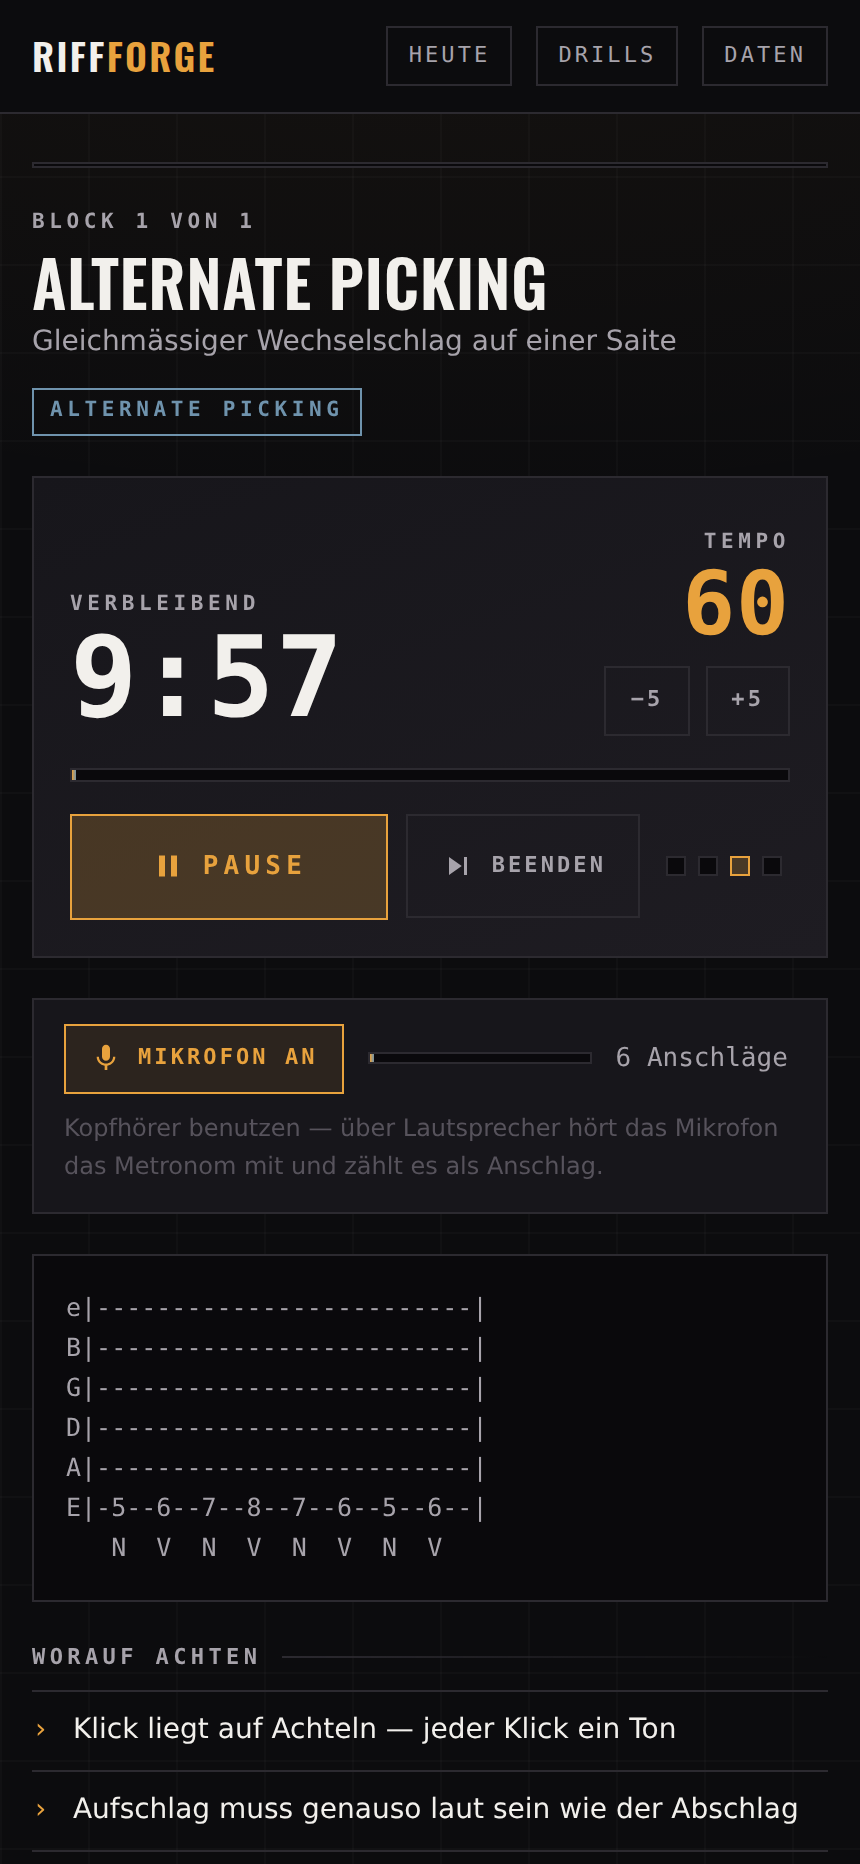
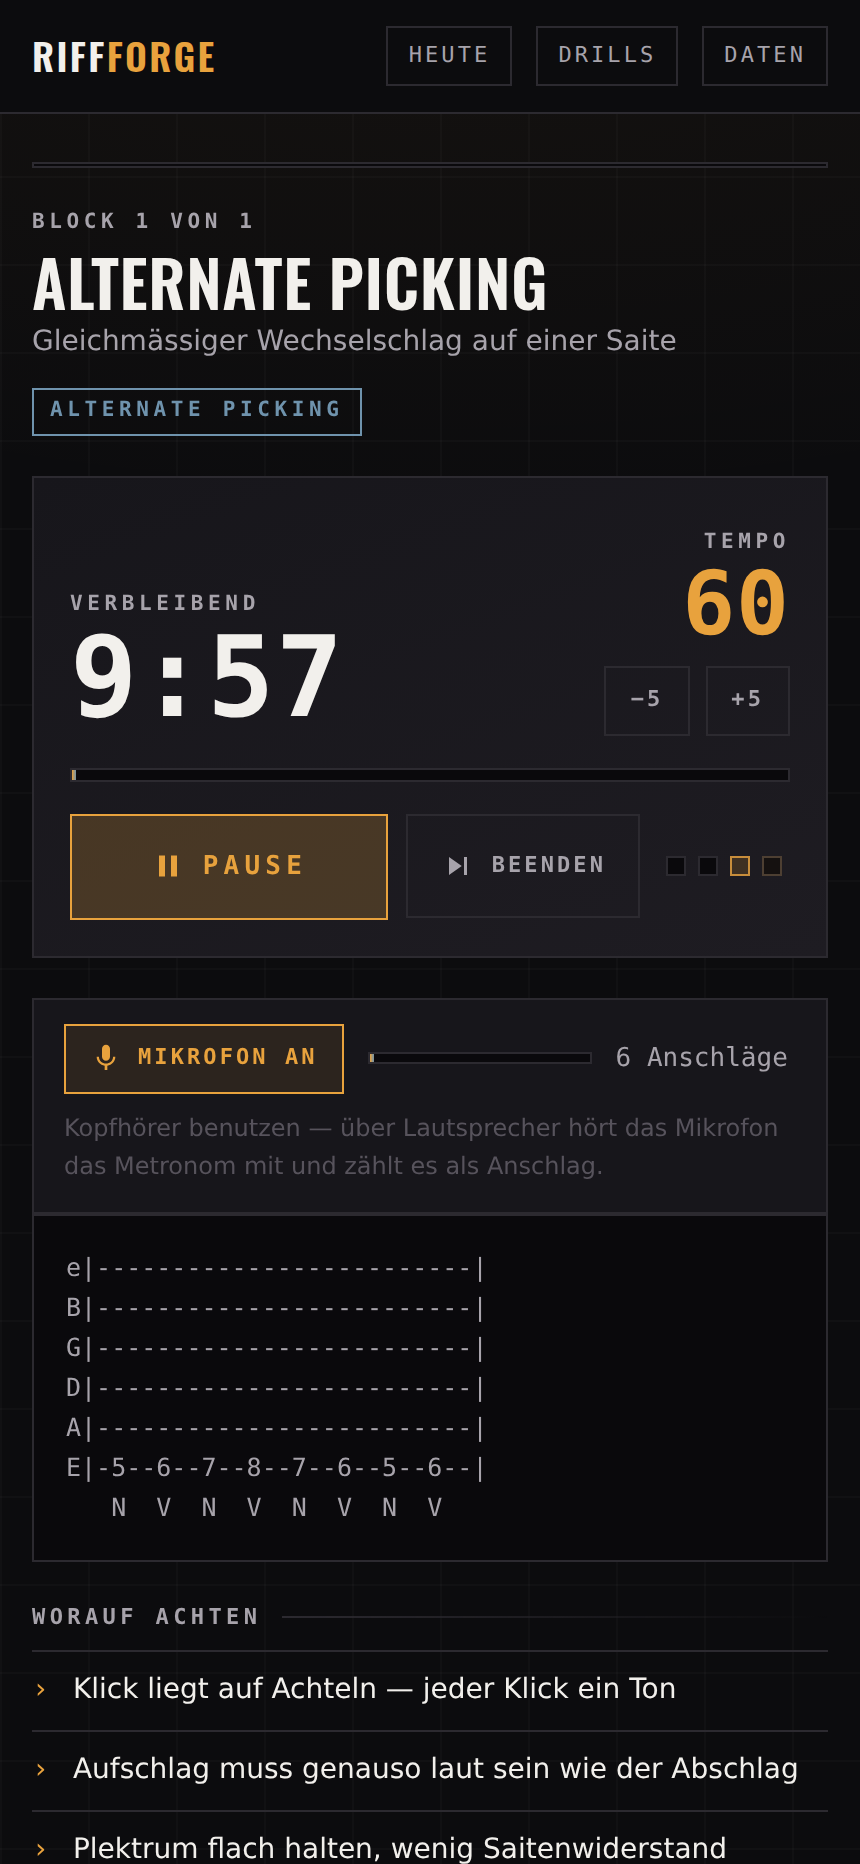
Breite Ansicht ab 900 px, und ein Übungskalender
Wie bei Setlist: unter 900 px ist die schmale Spalte richtig, darüber
wird daraus sonst eine Handy-App mit Leere daneben. Die Reihenfolge im
Markup bleibt gleich, .zwei-spalten stapelt auf dem Handy einfach.

- Start: links Ansage, Start und Kalender, rechts Zahlen und Tempi
- Block: links Uhr, Tempo, Transport und Mikrofon, rechts Tab, Cues und
  Theorie — beim Spielen muss auf dem Mac nichts mehr gescrollt werden.
  Das ist der eigentliche Gewinn der Breite.
- Drills zweispaltig, Daten breiter
- Der Abschluss-Bildschirm bleibt schmal: er ist eine Entscheidung,
  keine Übersicht.

Übungskalender, sechzehn Wochen, sieben Zeilen, eine Spalte je Woche.
Bewusst binär statt nach Minuten abgestuft — und das kam nicht aus dem
Bauch: drei Stufen einer Hue fallen auf diesem Grund durch die Prüfung,
entweder ist die unterste vom leeren Tag nicht zu unterscheiden oder die
oberen nicht voneinander. Beim Nachdenken darüber fiel auf, dass die
Abstufung ohnehin falsch wäre: eine Session ist per Konstruktion rund
eine Viertelstunde, die Minuten pro Tag sind Rauschen. Was zählt, sind
Serien und Lücken. Der genaue Wert steht im Titel jeder Zelle, damit die
Farbe nicht die einzige Auskunft ist.

Verifiziert: Handy bleibt einspaltig und ohne waagerechtes Scrollen,
Session-Ablauf, Export/Import und offline weiterhin vollständig.
100 Tests.

Claude-Session: https://claude.ai/code/session_012LvptsAaijysVFdLtB85w5

diff --git a/lib/session/__tests__/calendar.test.ts b/lib/session/__tests__/calendar.test.ts
@@ -1,0 +1,75 @@
+import { describe, expect, it } from "vitest"
+import { practiceCalendar } from "../calendar"
+import type { DrillResult, PracticeLog } from "../types"
+
+/** Dienstag, 10. März 2026. */
+const NOW = new Date(2026, 2, 10, 21, 0, 0)
+
+function on(day: string, seconds = 300): DrillResult {
+  return {
+    drillId: "tech-gallop",
+    technique: "gallop",
+    bpm: 100,
+    rating: 3,
+    seconds,
+    at: new Date(`${day}T20:00:00`).toISOString(),
+  }
+}
+
+function log(...results: DrillResult[]): PracticeLog {
+  return { version: 1, results }
+}
+
+describe("practiceCalendar", () => {
+  it("fills a whole rectangle of weeks", () => {
+    expect(practiceCalendar(log(), { weeks: 16, now: NOW })).toHaveLength(112)
+  })
+
+  it("starts on a Monday so the rows are weekdays", () => {
+    const days = practiceCalendar(log(), { weeks: 4, now: NOW })
+    expect(days[0].date.getDay()).toBe(1)
+  })
+
+  it("runs to the Sunday of the current week, not to today", () => {
+    // Sonst franst die letzte Spalte aus.
+    const days = practiceCalendar(log(), { weeks: 4, now: NOW })
+    expect(days[days.length - 1].date.getDay()).toBe(0)
+  })
+
+  it("marks today exactly once", () => {
+    const days = practiceCalendar(log(), { weeks: 8, now: NOW })
+    expect(days.filter((day) => day.isToday)).toHaveLength(1)
+    expect(days.find((day) => day.isToday)!.key).toBe("2026-03-10")
+  })
+
+  it("marks the rest of the current week as future", () => {
+    const days = practiceCalendar(log(), { weeks: 4, now: NOW })
+    // Dienstag ist heute, also sind Mittwoch bis Sonntag Zukunft.
+    expect(days.filter((day) => day.isFuture)).toHaveLength(5)
+  })
+
+  it("sums the minutes of a day across its blocks", () => {
+    const days = practiceCalendar(log(on("2026-03-09"), on("2026-03-09"), on("2026-03-09")), {
+      weeks: 4,
+      now: NOW,
+    })
+    expect(days.find((day) => day.key === "2026-03-09")!.minutes).toBe(15)
+  })
+
+  it("leaves days without practice at zero", () => {
+    const days = practiceCalendar(log(on("2026-03-09")), { weeks: 4, now: NOW })
+    expect(days.filter((day) => day.minutes > 0)).toHaveLength(1)
+  })
+
+  it("ignores entries older than the window", () => {
+    const days = practiceCalendar(log(on("2025-01-01")), { weeks: 4, now: NOW })
+    expect(days.every((day) => day.minutes === 0)).toBe(true)
+  })
+
+  it("counts a late session for that calendar day", () => {
+    const days = practiceCalendar(log(on("2026-03-09", 600)), { weeks: 4, now: NOW })
+    const monday = days.find((day) => day.key === "2026-03-09")!
+    expect(monday.minutes).toBe(10)
+    expect(monday.date.getDay()).toBe(1)
+  })
+})

diff --git a/components/session/practice-calendar.tsx b/components/session/practice-calendar.tsx
@@ -1,0 +1,54 @@
+import { practiceCalendar } from "@/lib/session/calendar"
+import type { PracticeLog } from "@/lib/session/types"
+
+const WEEKDAY = ["Mo", "Di", "Mi", "Do", "Fr", "Sa", "So"]
+const MONTH = ["Jan", "Feb", "Mär", "Apr", "Mai", "Jun", "Jul", "Aug", "Sep", "Okt", "Nov", "Dez"]
+
+/**
+ * Übungskalender: eine Zelle je Tag, sieben Zeilen, eine Spalte je Woche.
+ *
+ * Bewusst binär statt nach Minuten abgestuft. Eine Session ist per
+ * Konstruktion rund eine Viertelstunde lang — die Minuten pro Tag schwanken
+ * kaum, und sie als Farbverlauf zu zeigen hiesse, Rauschen als Signal
+ * auszugeben. Was hier zählt, ist das Muster: Serien und Lücken.
+ *
+ * Der genaue Wert steht im Titel jeder Zelle, damit die Farbe nicht die
+ * einzige Auskunft ist.
+ */
+export function PracticeCalendar({ log, weeks = 16 }: { log: PracticeLog; weeks?: number }) {
+  const days = practiceCalendar(log, { weeks })
+  const played = days.filter((day) => day.minutes > 0).length
+  const past = days.filter((day) => !day.isFuture).length
+
+  return (
+    <div className="border border-line bg-panel p-[14px]">
+      <div
+        className="grid grid-flow-col grid-rows-7 gap-[3px]"
+        style={{ gridAutoColumns: "1fr" }}
+        role="img"
+        aria-label={`Übungskalender: ${played} von ${past} Tagen geübt`}
+      >
+        {days.map((day) => (
+          <div
+            key={day.key}
+            title={`${WEEKDAY[(day.date.getDay() + 6) % 7]}, ${day.date.getDate()}. ${
+              MONTH[day.date.getMonth()]
+            } — ${day.minutes > 0 ? `${day.minutes} Min` : "nicht geübt"}`}
+            className={`aspect-square border ${
+              day.minutes > 0 ? "border-akzent bg-akzent" : "border-line bg-sunken"
+            } ${day.isFuture ? "opacity-25" : ""} ${day.isToday ? "outline outline-1 outline-offset-1 outline-fg" : ""}`}
+          />
+        ))}
+      </div>
+
+      <div className="mt-[11px] flex flex-wrap items-center gap-3 font-mono text-[10.5px] uppercase tracking-[0.12em] text-muted">
+        <span className="flex items-center gap-1.5">
+          <i className="inline-block h-[9px] w-[9px] bg-akzent" /> geübt
+        </span>
+        <span className="ml-auto text-fg">
+          {played} von {past} Tagen
+        </span>
+      </div>
+    </div>
+  )
+}

diff --git a/lib/session/calendar.ts b/lib/session/calendar.ts
@@ -1,0 +1,66 @@
+import { dayKey } from "./progress"
+import type { PracticeLog } from "./types"
+
+export interface CalendarDay {
+  /** YYYY-MM-DD, lokale Zeit. */
+  key: string
+  date: Date
+  /** Gespielte Minuten an diesem Tag. 0 heisst: nicht geübt. */
+  minutes: number
+  isToday: boolean
+  /** Tage nach heute in der laufenden Woche — das Raster ist immer voll. */
+  isFuture: boolean
+}
+
+export interface CalendarOptions {
+  weeks?: number
+  now?: Date
+}
+
+/**
+ * Das Raster für den Übungskalender.
+ *
+ * Sieben Zeilen (Montag oben), eine Spalte je Woche — die Reihenfolge ist
+ * deshalb spaltenweise, passend zu `grid-auto-flow: column`. Die laufende
+ * Woche wird bis Sonntag aufgefüllt, damit das Raster nicht ausfranst; die
+ * Tage danach sind als Zukunft markiert.
+ */
+export function practiceCalendar(log: PracticeLog, options: CalendarOptions = {}): CalendarDay[] {
+  const weeks = options.weeks ?? 16
+  const now = options.now ?? new Date()
+
+  const minutesByDay = new Map<string, number>()
+  for (const result of log.results) {
+    const key = dayKey(new Date(result.at))
+    minutesByDay.set(key, (minutesByDay.get(key) ?? 0) + result.seconds / 60)
+  }
+
+  // Montag der laufenden Woche, dann so viele Wochen zurück wie gefordert.
+  const start = new Date(now)
+  start.setHours(0, 0, 0, 0)
+  start.setDate(start.getDate() - mondayIndex(start) - (weeks - 1) * 7)
+
+  const todayKey = dayKey(now)
+  const days: CalendarDay[] = []
+
+  for (let offset = 0; offset < weeks * 7; offset += 1) {
+    const date = new Date(start)
+    date.setDate(start.getDate() + offset)
+    const key = dayKey(date)
+
+    days.push({
+      key,
+      date,
+      minutes: Math.round(minutesByDay.get(key) ?? 0),
+      isToday: key === todayKey,
+      isFuture: key > todayKey,
+    })
+  }
+
+  return days
+}
+
+/** 0 = Montag … 6 = Sonntag. `getDay()` zählt ab Sonntag. */
+function mondayIndex(date: Date): number {
+  return (date.getDay() + 6) % 7
+}

diff --git a/components/session/practice-overview.tsx b/components/session/practice-overview.tsx
@@ -12,6 +12,7 @@ import {
   totalMinutes,
 } from "@/lib/session/progress"
 import { loadLog } from "@/lib/storage/practice-log"
+import { PracticeCalendar } from "@/components/session/practice-calendar"
 import { EMPTY_LOG, TECHNIQUE_LABELS, type PracticeLog } from "@/lib/session/types"
 
 const EXTRA_LENGTHS = [10, 25]
@@ -49,7 +50,8 @@ export function PracticeOverview() {
     .sort((a, b) => b.mastery - a.mastery)
 
   return (
-    <div className="mx-auto max-w-[640px] px-4 pb-16">
+    <div className="huelle-breit zwei-spalten">
+      <div className="spalte">
       {/* Die Ansage: was heute ansteht, und woran das festgemacht ist. */}
       <section className="card mt-6">
         <div className="flex items-center gap-3">
@@ -79,6 +81,15 @@ export function PracticeOverview() {
         ))}
       </div>
 
+        {hasHistory && (
+          <>
+            <h2 className="rule mb-3 mt-9">Übungstage</h2>
+            <PracticeCalendar log={log} />
+          </>
+        )}
+      </div>
+
+      <div className="spalte">
       {hasHistory && (
         <>
           <h2 className="rule mt-9 mb-3">Bisher</h2>
@@ -123,6 +134,7 @@ export function PracticeOverview() {
           )}
         </>
       )}
+      </div>
     </div>
   )
 }

diff --git a/components/session/block-runner.tsx b/components/session/block-runner.tsx
@@ -199,7 +199,7 @@ export function BlockRunner({ block, index, total, onComplete }: BlockRunnerProp
   }
 
   return (
-    <div className="space-y-5">
+    <div>
       <div className="flex flex-wrap items-start justify-between gap-3">
         <div className="min-w-0">
           <p className="kicker">
@@ -214,6 +214,8 @@ export function BlockRunner({ block, index, total, onComplete }: BlockRunnerProp
         </span>
       </div>
 
+      <div className="zwei-spalten mt-5">
+      <div className="spalte space-y-5">
       <div className="card plain">
         <div className="flex flex-wrap items-end justify-between gap-6">
           <div>
@@ -282,6 +284,9 @@ export function BlockRunner({ block, index, total, onComplete }: BlockRunnerProp
         onToggle={toggleMic}
       />
 
+      </div>
+
+      <div className="spalte space-y-5">
       {drill.tab && <TabView tab={drill.tab} />}
 
       <div>
@@ -302,6 +307,8 @@ export function BlockRunner({ block, index, total, onComplete }: BlockRunnerProp
           <p className="px-[15px] pb-[15px] text-[14px] leading-relaxed text-muted">{drill.why}</p>
         </details>
       )}
+      </div>
+      </div>
     </div>
   )
 }

diff --git a/components/session/session-runner.tsx b/components/session/session-runner.tsx
@@ -89,7 +89,7 @@ export function SessionRunner({ minutes, drillId }: { minutes: number; drillId?:
 
   if (blocks === null || startingLog === null) {
     return (
-      <p className="mx-auto max-w-[640px] px-4 pt-8 font-mono text-[12px] uppercase tracking-[0.18em] text-dim">
+      <p className="huelle pt-8 font-mono text-[12px] uppercase tracking-[0.18em] text-dim">
         Session wird vorbereitet…
       </p>
     )
@@ -100,7 +100,7 @@ export function SessionRunner({ minutes, drillId }: { minutes: number; drillId?:
   }
 
   return (
-    <div className="mx-auto max-w-[640px] px-4 pb-16">
+    <div className="huelle-breit">
       <div className="bar mt-6 h-[3px]">
         <i className="transition-[width] duration-500" style={{ width: `${overallProgress}%` }} />
       </div>

diff --git a/app/globals.css b/app/globals.css
@@ -82,6 +82,24 @@
     display: none;
   }
 
+  /* Hülle für einen Bildschirm. Auf dem Handy eine schmale Spalte, auf dem
+     Mac breiter — die Reihenfolge im Markup bleibt gleich, sie stapelt sich
+     unten einfach. */
+  .huelle {
+    @apply mx-auto max-w-[640px] px-4 pb-16;
+  }
+  .huelle-breit {
+    @apply huelle wide:max-w-[1080px];
+  }
+  .zwei-spalten {
+    @apply wide:grid wide:grid-cols-2 wide:items-start wide:gap-x-[26px];
+  }
+  /* Erste Überschrift einer Spalte braucht oben keinen Abstand, sonst
+     hängen die Spalten auf verschiedenen Höhen an. */
+  .spalte > :first-child {
+    @apply wide:mt-0;
+  }
+
   .kicker {
     @apply font-mono text-[10.5px] font-bold uppercase tracking-[0.22em] text-muted;
   }

diff --git a/components/navigation.tsx b/components/navigation.tsx
@@ -14,7 +14,7 @@ export function Navigation() {
 
   return (
     <nav className="sticky top-0 z-20 border-b border-line bg-bg pt-[env(safe-area-inset-top)]">
-      <div className="mx-auto flex h-14 max-w-[640px] items-center gap-3 px-4">
+      <div className="mx-auto flex h-14 max-w-[640px] items-center gap-3 px-4 wide:max-w-[1080px]">
         {/* Der Farbwechsel fällt zwischen zweitem und drittem F: "Riffforge"
             ist als Kompositum richtig geschrieben, aber drei gleiche Buchstaben
             in versaler Schrift liest man sonst nicht auseinander. */}

diff --git a/components/session/drill-library.tsx b/components/session/drill-library.tsx
@@ -27,7 +27,7 @@ export function DrillLibrary() {
           <h2 className="rule mb-1 mt-9">{section.title}</h2>
           <p className="mb-3 text-[12.5px] text-dim">{section.blurb}</p>
 
-          <div className="flex flex-col gap-[9px]">
+          <div className="grid gap-[9px] wide:grid-cols-2">
             {DRILLS.filter((drill) => drill.kind === section.kind).map((drill) => {
               const progress = progressFor(log, drill.id)
               const mastery = masteryOf(drill, progress)

diff --git a/components/session/session-summary.tsx b/components/session/session-summary.tsx
@@ -41,7 +41,7 @@ export function SessionSummary({ results, previousLog, log, onExtend }: SessionS
   const gains = gainsFrom(results, previousLog)
 
   return (
-    <div className="mx-auto max-w-[640px] px-4 pb-16">
+    <div className="huelle">
       {/* Erst das Geschaffte, dann der Bericht. */}
       <section className="card mt-6">
         <span className="kicker text-gruen">Feierabend</span>

diff --git a/app/drills/page.tsx b/app/drills/page.tsx
@@ -4,7 +4,7 @@ export const metadata = { title: "Drills · Riffforge" }
 
 export default function DrillsPage() {
   return (
-    <div className="mx-auto max-w-[640px] px-4 pb-16">
+    <div className="huelle-breit">
       <header className="mt-6">
         <span className="kicker">Der Katalog</span>
         <h1 className="display mt-1 text-[38px] text-fg">Drills</h1>

diff --git a/app/daten/page.tsx b/app/daten/page.tsx
@@ -4,7 +4,7 @@ export const metadata = { title: "Daten · Riffforge" }
 
 export default function DatenPage() {
   return (
-    <div className="mx-auto max-w-[640px] px-4 pb-16">
+    <div className="huelle-breit">
       <header className="mt-6">
         <span className="kicker">Sicherung</span>
         <h1 className="display mt-1 text-[38px] text-fg">Daten</h1>
